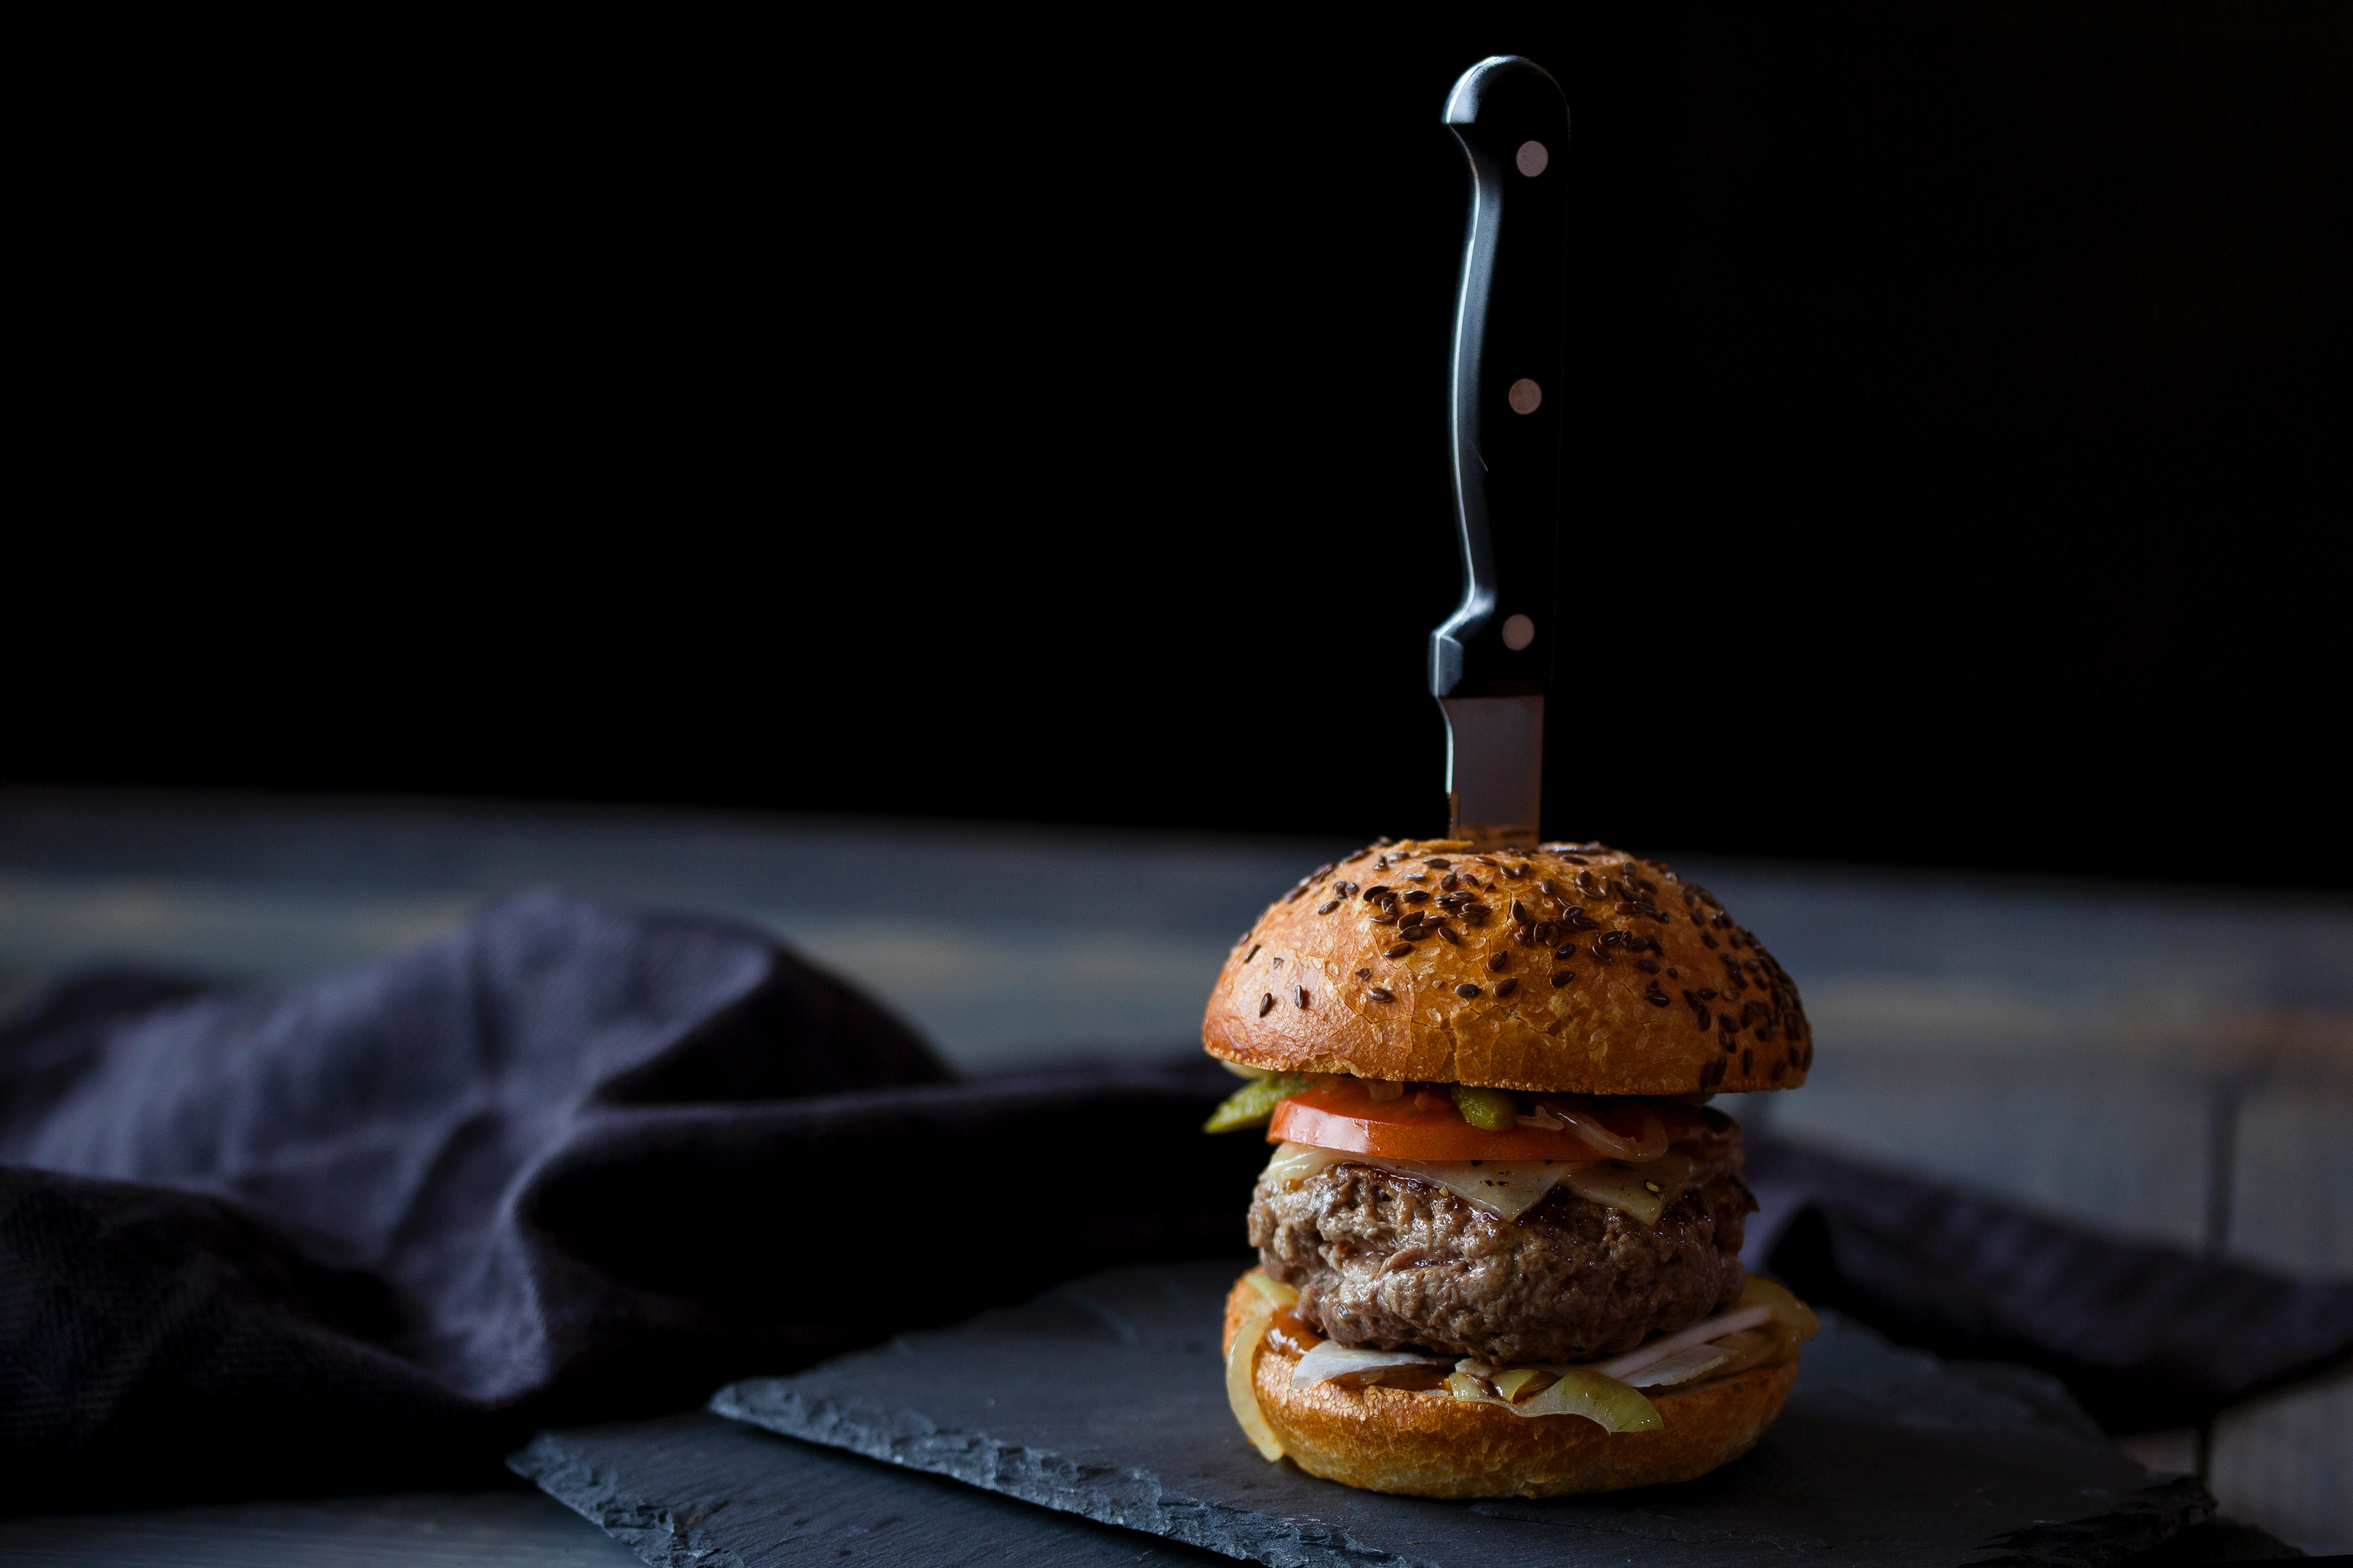
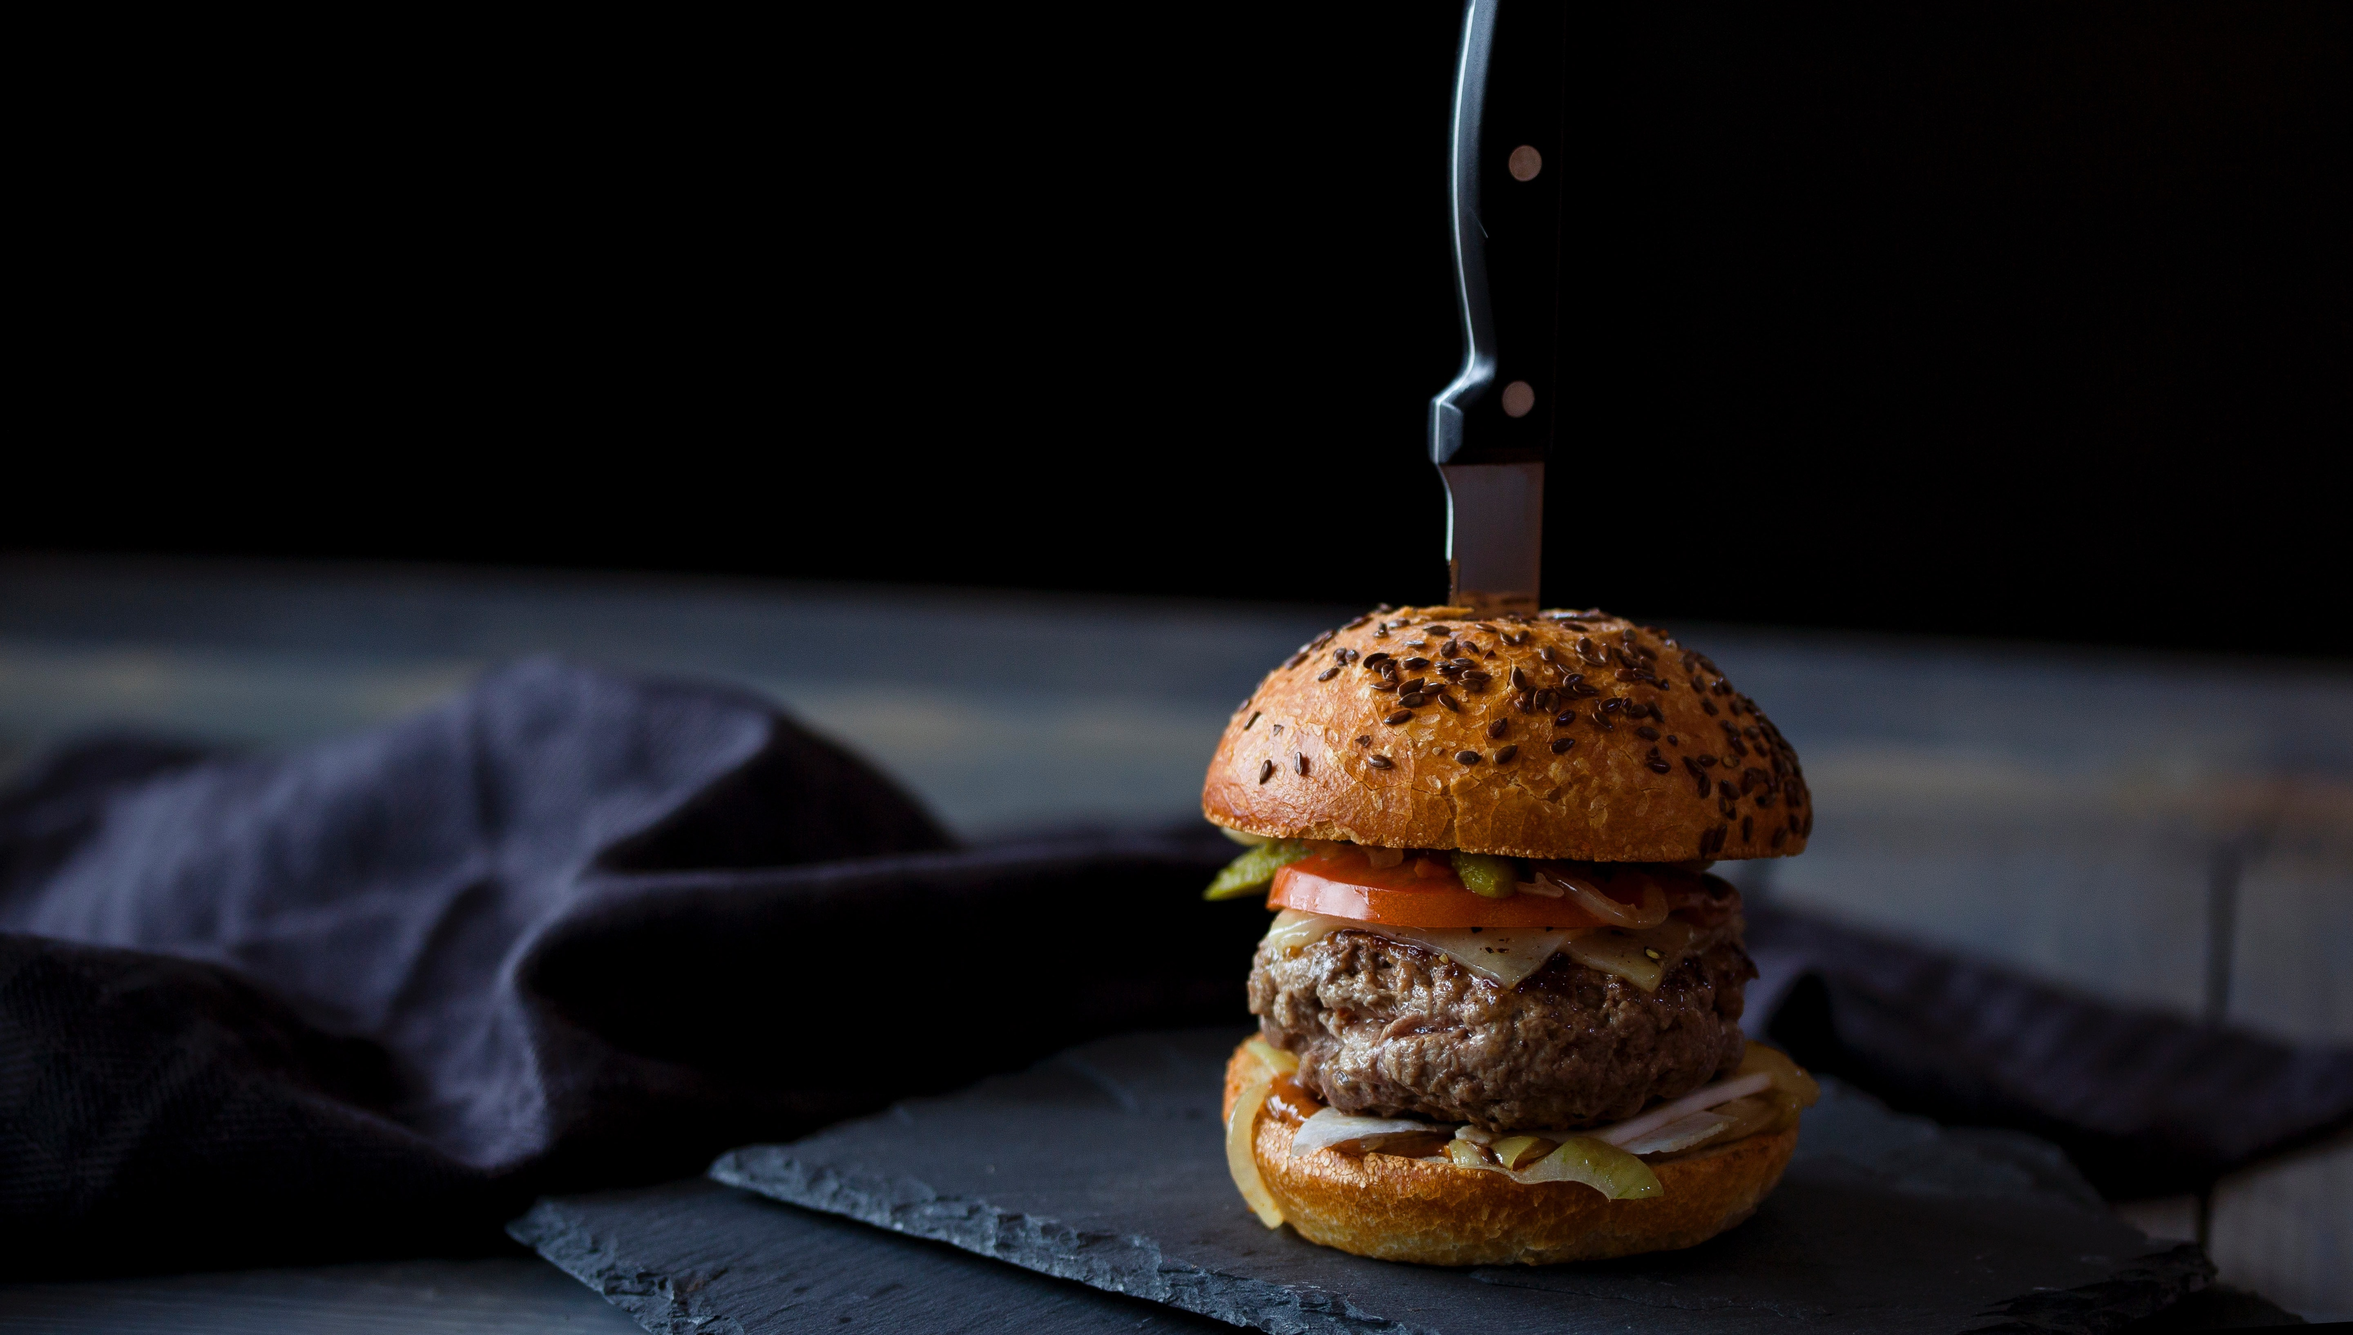
navbar done, and starting doing the review on the background hero image

Changed region(s): [[0.0, 0.0, 1.0, 0.9985], [0.9062, 0.9049, 0.9375, 0.9361], [0.1562, 0.9361, 0.1875, 0.9673]]

diff --git a/assets/css/style.css b/assets/css/style.css
@@ -1,0 +1,75 @@
+@import url('https://fonts.googleapis.com/css?family=Oswald:100,200,300,400,500,600,700|Roboto:100,200,300,400,500,600,700');
+ 
+ /*----------------------------Navbar----------------- */
+.navbar {
+    background-color: black;
+    margin-top: 0;
+    padding-top: 0;
+    border-top: 5px solid #f8a13d;
+    border-left: 5px solid #f8a13d;
+}
+body {
+    padding-top:0;
+}
+
+.navbar-brand {
+    color:#f8a13d;
+    font-family: "Oswald", sans-serif;
+    font-size: 60px;
+    font-weight: 400;
+    margin-bottom: 0px;
+    padding-top: 0px;
+    padding-right: 0px;
+    padding-bottom: 0px;
+    padding-left: 0px;
+    position: center;
+}
+
+.navbar .nav-item {
+    color: #b5b3c2; 
+    float: right;
+    font-size: 18px;
+    font-family: "Roboto", sans-serif;
+    font-weight: 400;
+    margin-left: 15px;
+    margin-right: 15px;
+    padding-top:5px;
+    padding-bottom:1px;
+}
+
+.nav-item:hover {
+    color: #f8a13d;
+    border-bottom: 2px solid #b5b3c2;
+
+}
+
+.navbar-toggler {
+    border-color: #f8a13d;
+}
+
+.navbar-toggler-icon.icon-bar{
+background-color: white !important; }
+
+.burgers {
+    color:#b5b3c2;
+}
+
+ /*----------------------------background-image----------------- */
+
+
+#background-image {
+    background: url('../images/burger-menu.jpg') no-repeat bottom right fixed;
+    width: 100vw;
+    height: 50vw; 
+    background-size: 100% 100%;
+    background-repeat: no-repeat;
+    position: relative;
+    overflow: hidden;
+    border-left: 5px solid #f8a13d;
+    
+} 
+
+/*----------------------------About----------------- */
+.about-section {
+    height: 1200px;
+}

diff --git a/index.html b/index.html
@@ -13,12 +13,25 @@
 </head>
 
 <body>
-	<div class="row">
-        <div class="col-9">IndiBurgers</div>
-        <div class="col-1">Menu</div>
-        <div class="col-1">Contact</div>
-        <div class="col-1">Reservation</div>
-    </div>
+	<nav class="navbar navbar-expand-sm fixed-top">
+		<div class="navbar-brand" href="#">INDI<span class="burgers">Burgers</span></div>
+        <button class="navbar-toggler" data-toggle="collapse" data-target="#navbarNav" aria-controls="navbarNav" aria-expanded="false" aria-label="Toggle navigation">
+            <span class="navbar-toggler-icon"></span>
+        </button>
+		<div class="collapse navbar-collapse" id="navbarNav">
+			<div class="navbar-nav ml-auto">
+				<a class="nav-item nav-link" href="#">Menu</a>
+				<a class="nav-item nav-link" href="#">Contact</a>
+				<a class="nav-item nav-link" href="#">Reservation</a>
+			</div>
+		</div>
+	</nav>
+	<section>
+		<div id="background-image"></div>
+	</section>
+	<section class="about-section">
+
+	</section>
 </body>
 
 </html>
